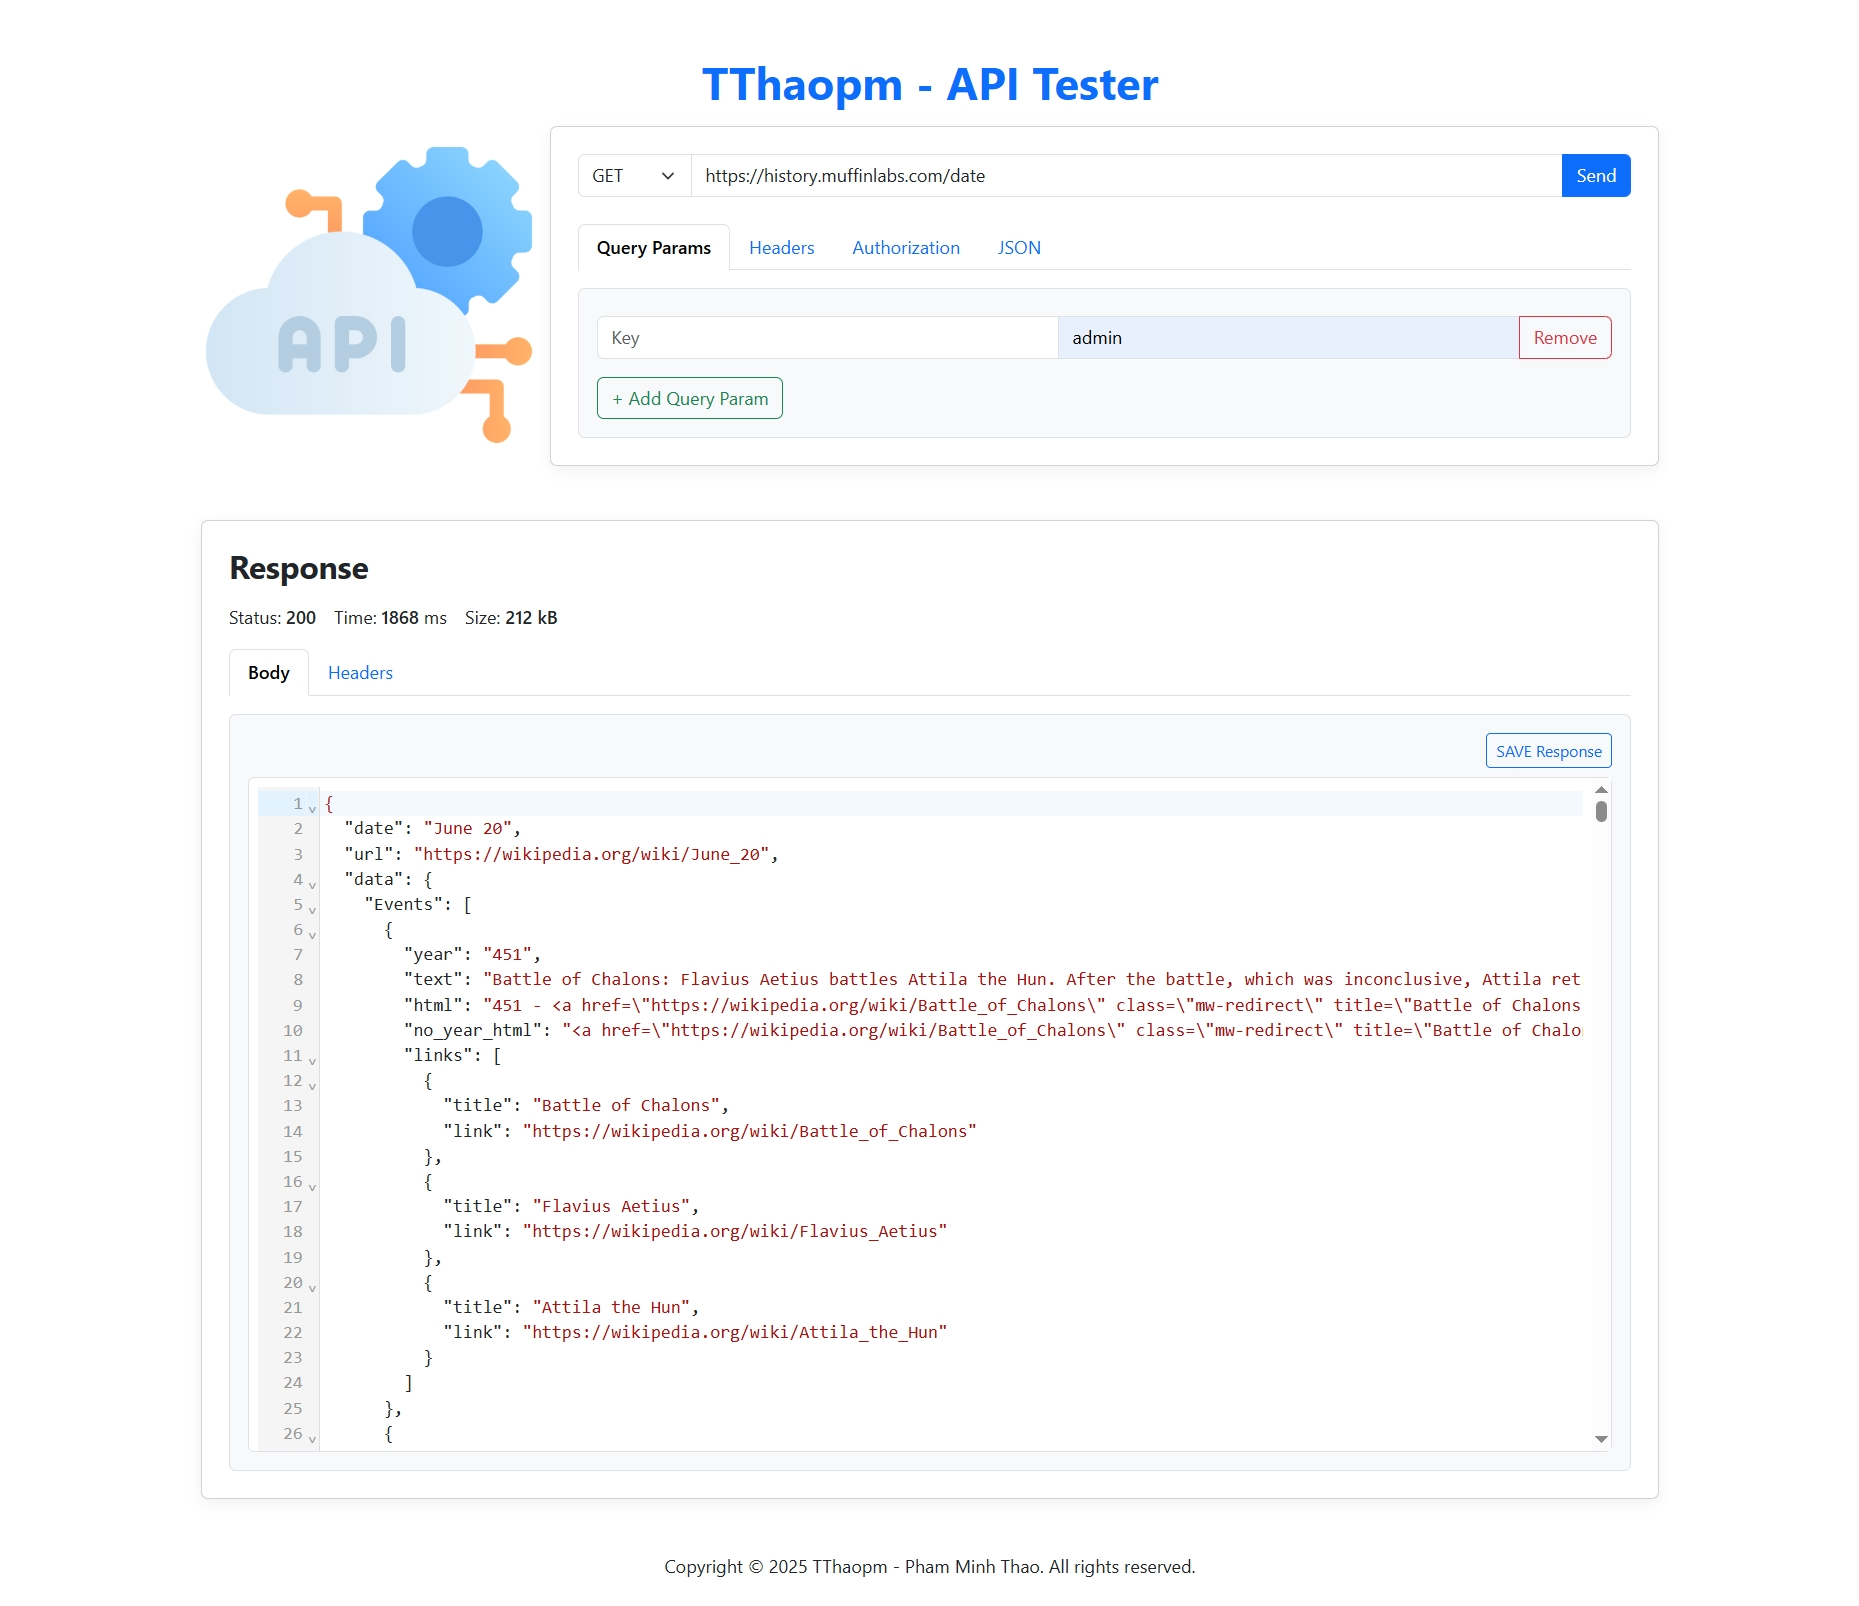
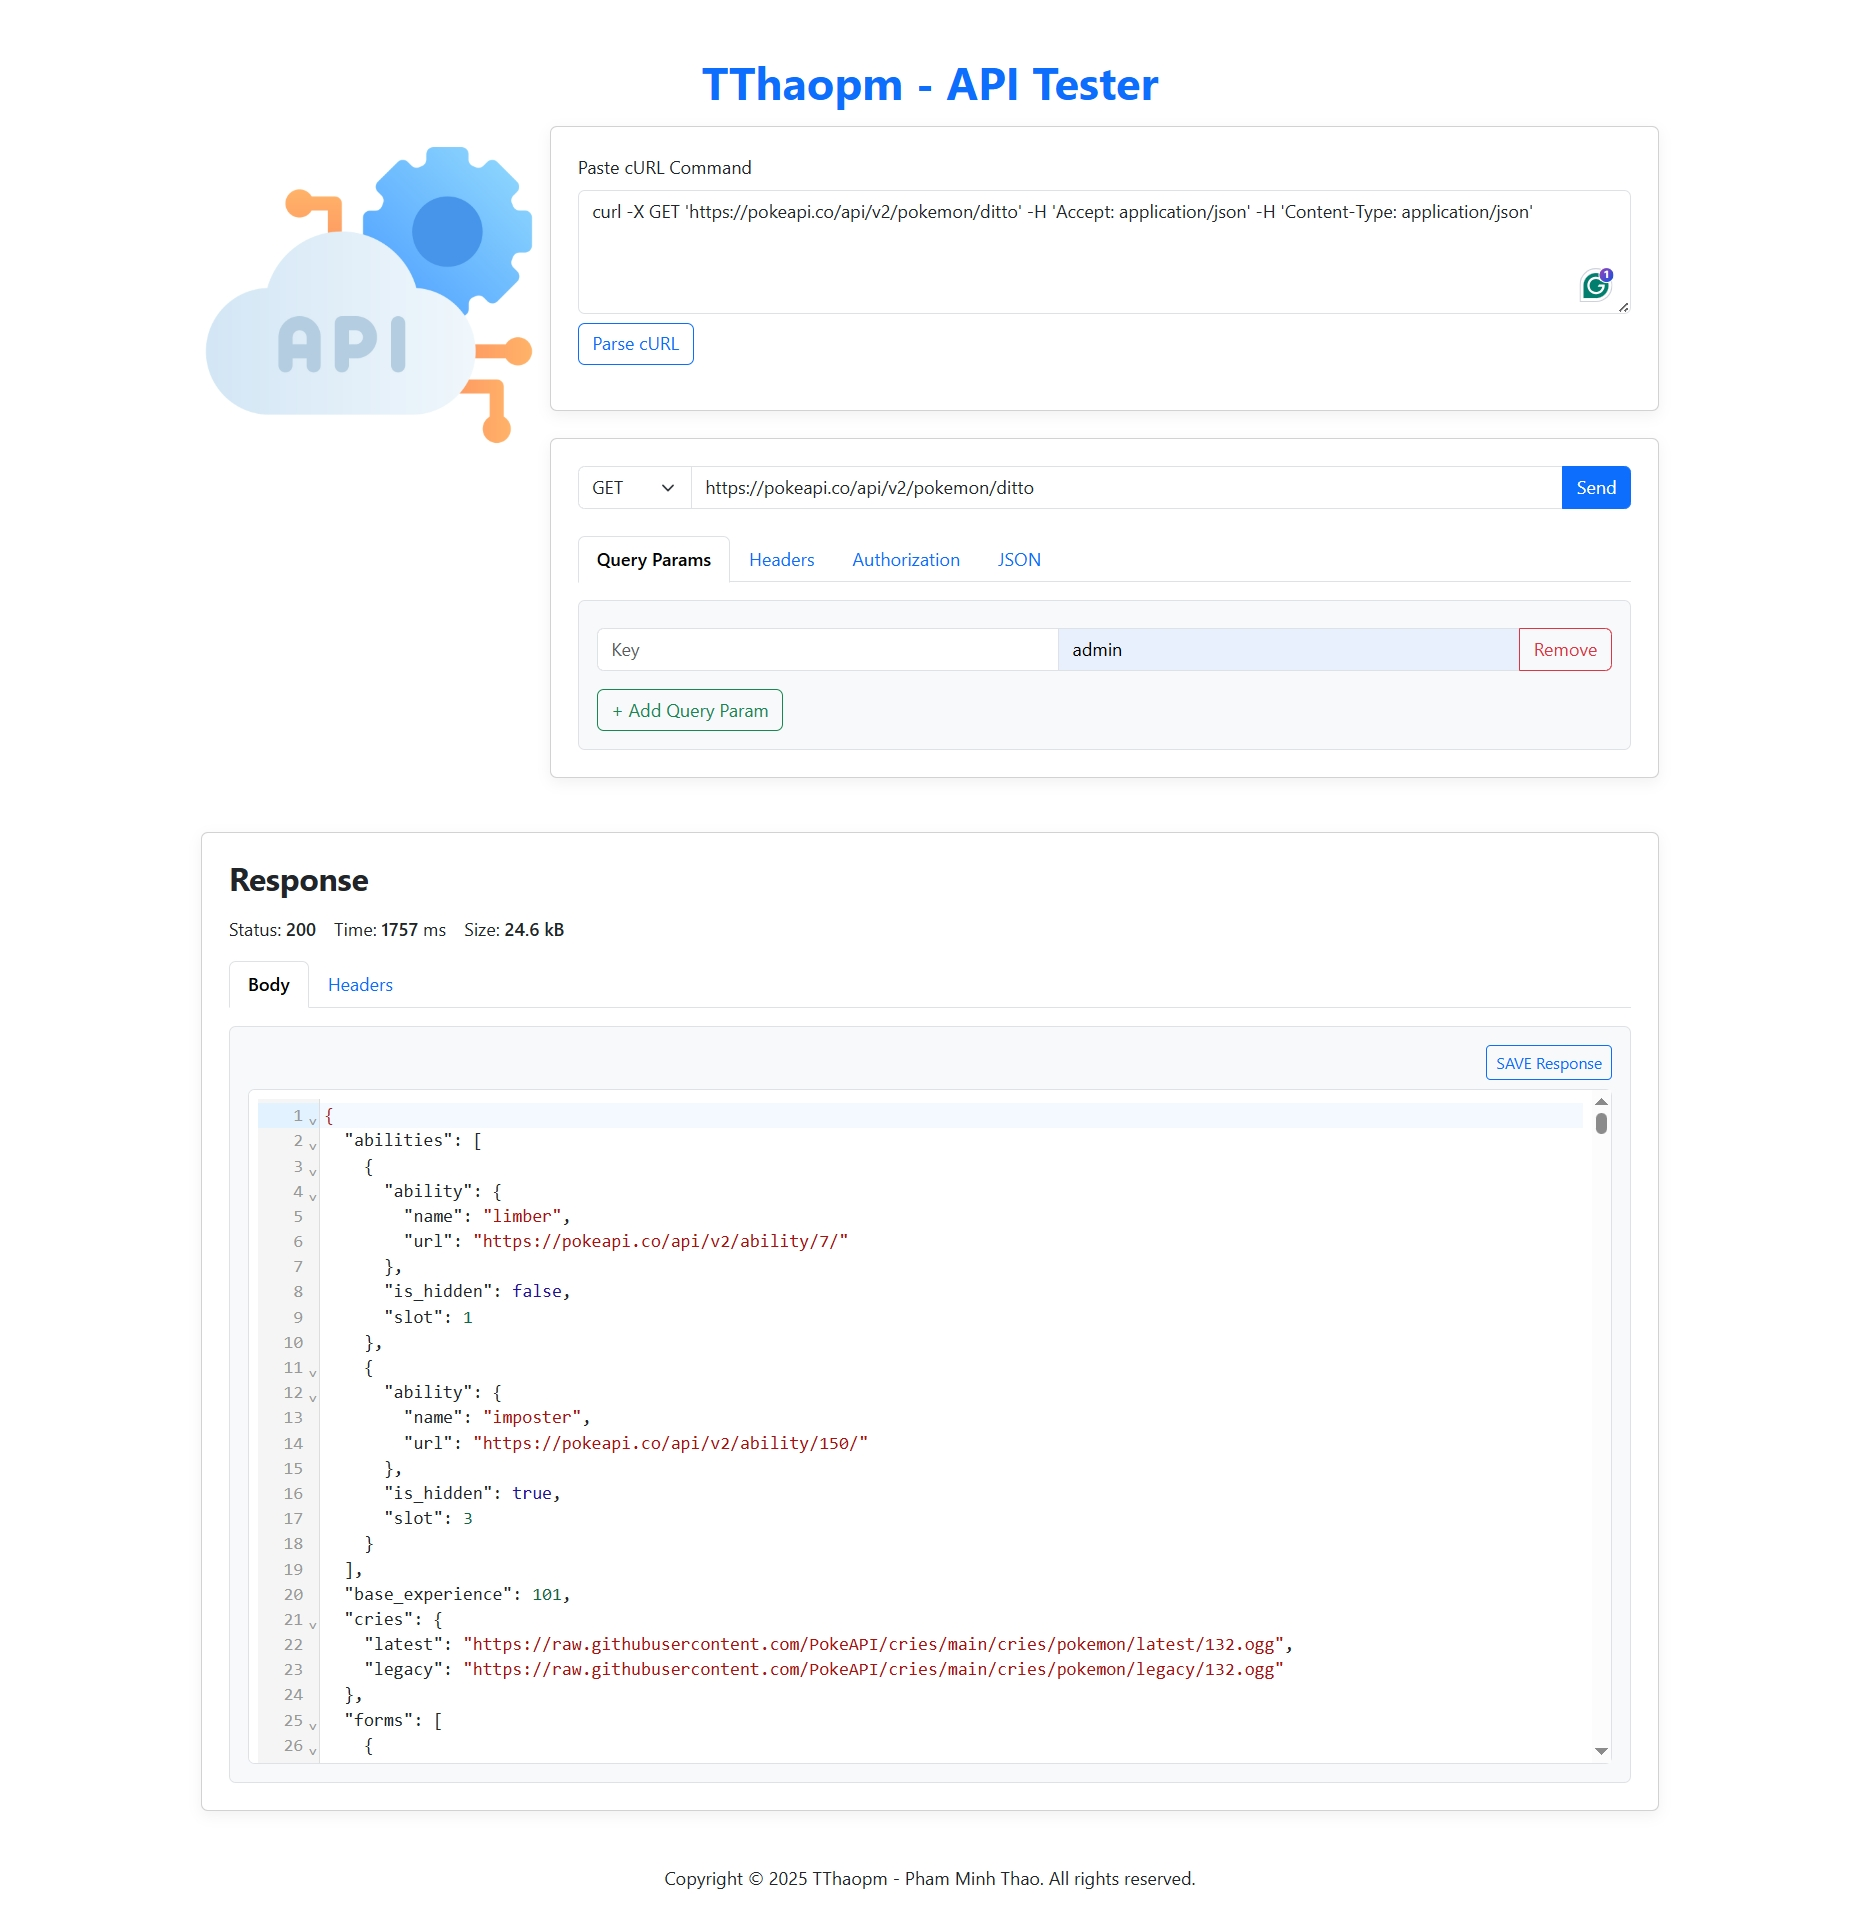
add api-free tets

diff --git a/script.js b/script.js
@@ -16,24 +16,32 @@ const bearerTokenInput = document.querySelector("[data-bearer-token]")
 const usernameInput = document.querySelector("[data-username]")
 const passwordInput = document.querySelector("[data-password]")
 const errorMessage = document.querySelector("#error-message")
+const curlInput = document.querySelector("#curl-input")
+const parseCurlBtn = document.querySelector("#parse-curl-btn")
+
+// Check selectors
+if (!form) console.error("Form element [data-form] not found")
+if (!curlInput) console.error("cURL input #curl-input not found")
+if (!parseCurlBtn) console.error("Parse cURL button #parse-curl-btn not found")
+if (!errorMessage) console.error("Error message #error-message not found")
 
 document
   .querySelector("[data-add-query-param-btn]")
-  .addEventListener("click", () => {
+  ?.addEventListener("click", () => {
     queryParamsContainer.append(createKeyValuePair())
   })
 
 document
   .querySelector("[data-add-request-header-btn]")
-  .addEventListener("click", () => {
+  ?.addEventListener("click", () => {
     requestHeadersContainer.append(createKeyValuePair())
   })
 
-queryParamsContainer.append(createKeyValuePair())
-requestHeadersContainer.append(createKeyValuePair())
+if (queryParamsContainer) queryParamsContainer.append(createKeyValuePair())
+if (requestHeadersContainer) requestHeadersContainer.append(createKeyValuePair())
 
 // Handle auth type selection
-authTypeSelect.addEventListener("change", () => {
+authTypeSelect?.addEventListener("change", () => {
   const authType = authTypeSelect.value
   bearerAuthSection.classList.add("d-none")
   basicAuthSection.classList.add("d-none")
@@ -43,6 +51,115 @@ authTypeSelect.addEventListener("change", () => {
     basicAuthSection.classList.remove("d-none")
   }
 })
+
+// Parse cURL command
+parseCurlBtn?.addEventListener("click", () => {
+  console.log("Parse cURL button clicked")
+  const curlCommand = curlInput?.value.trim()
+  if (!curlCommand) {
+    errorMessage.textContent = "Please enter a cURL command"
+    errorMessage.classList.remove("d-none")
+    console.warn("Empty cURL command")
+    return
+  }
+
+  try {
+    const parsed = parseCurlCommand(curlCommand)
+    console.log("Parsed cURL:", parsed)
+    if (!parsed.url) {
+      errorMessage.textContent = "No valid URL found in cURL command"
+      errorMessage.classList.remove("d-none")
+      console.warn("Parsed cURL has no URL")
+      return
+    }
+    // Populate UI fields
+    const urlInput = document.querySelector("[data-url]")
+    const methodSelect = document.querySelector("[data-method]")
+    if (urlInput) {
+      urlInput.value = parsed.url
+      console.log("Updated URL input:", parsed.url)
+    } else {
+      console.error("URL input [data-url] not found")
+    }
+    if (methodSelect) {
+      methodSelect.value = parsed.method
+      console.log("Updated method select:", parsed.method)
+    } else {
+      console.error("Method select [data-method] not found")
+    }
+    // Clear existing headers
+    requestHeadersContainer.innerHTML = ""
+    // Add parsed headers (excluding Authorization)
+    Object.entries(parsed.headers).forEach(([key, value]) => {
+      if (key.toLowerCase() !== "authorization") {
+        requestHeadersContainer.append(createKeyValuePair(key, value))
+        console.log(`Added header: ${key}=${value}`)
+      }
+    })
+    // Handle Authorization
+    const authHeader = parsed.headers.Authorization || parsed.headers.authorization
+    if (authHeader) {
+      if (authHeader.startsWith("Bearer ")) {
+        authTypeSelect.value = "bearer"
+        bearerTokenInput.value = authHeader.replace("Bearer ", "").trim()
+        bearerAuthSection.classList.remove("d-none")
+        basicAuthSection.classList.add("d-none")
+        console.log("Set Bearer token:", bearerTokenInput.value)
+      } else if (authHeader.startsWith("Basic ")) {
+        authTypeSelect.value = "basic"
+        const decoded = atob(authHeader.replace("Basic ", "").trim())
+        const [username, password] = decoded.split(":")
+        usernameInput.value = username || ""
+        passwordInput.value = password || ""
+        basicAuthSection.classList.remove("d-none")
+        bearerAuthSection.classList.add("d-none")
+        console.log("Set Basic Auth:", { username, password })
+      } else {
+        authTypeSelect.value = "none"
+        requestHeadersContainer.append(createKeyValuePair("Authorization", authHeader))
+        console.log("Added Authorization header:", authHeader)
+      }
+    } else {
+      authTypeSelect.value = "none"
+      console.log("No Authorization header found")
+    }
+    errorMessage.classList.add("d-none")
+  } catch (e) {
+    errorMessage.textContent = "Invalid cURL command format: " + e.message
+    errorMessage.classList.remove("d-none")
+    console.error("cURL parsing error:", e)
+  }
+})
+
+function parseCurlCommand(curlCommand) {
+  const result = { method: "GET", url: "", headers: {} }
+  // Split by spaces, preserving quoted strings
+  const parts = curlCommand.match(/(?:[^\s'"]+|'[^']*'|"[^"]*")+/g) || []
+  console.log("cURL parts:", parts)
+  if (!parts[0]?.startsWith("curl")) {
+    console.warn("cURL command does not start with 'curl'")
+    return result
+  }
+
+  for (let i = 1; i < parts.length; i++) {
+    const part = parts[i]
+    if (part === "-X" && parts[i + 1]) {
+      result.method = parts[i + 1].toUpperCase()
+      i++
+    } else if (part === "-H" && parts[i + 1]) {
+      const header = parts[i + 1].replace(/^['"]|['"]$/g, "")
+      const match = header.match(/([^:]+):\s*(.+)/)
+      if (match) {
+        const [, key, value] = match
+        result.headers[key] = value
+      }
+      i++
+    } else if (part.match(/^https?:\/\//) || (part.match(/^['"].*https?:\/\//))) {
+      result.url = part.replace(/^['"]|['"]$/g, "")
+    }
+  }
+  return result
+}
 
 axios.interceptors.request.use(request => {
   request.customData = request.customData || {}
@@ -73,15 +190,16 @@ axios.interceptors.response.use(updateEndTime, e => {
 })
 
 const { requestEditor, updateResponseEditor } = setupEditors()
-form.addEventListener("submit", e => {
+form?.addEventListener("submit", e => {
   e.preventDefault()
+  console.log("Form submitted")
   errorMessage.classList.add("d-none")
 
-  // Validate URL
-  const urlInput = document.querySelector("[data-url]").value.trim()
-  if (!urlInput.match(/^https?:\/\//)) {
+  const urlInput = document.querySelector("[data-url]")?.value.trim()
+  if (!urlInput?.match(/^https?:\/\//)) {
     errorMessage.textContent = "Invalid URL: Must include http:// or https://"
     errorMessage.classList.remove("d-none")
+    console.warn("Invalid URL:", urlInput)
     return
   }
 
@@ -91,27 +209,29 @@ form.addEventListener("submit", e => {
   } catch (e) {
     errorMessage.textContent = "JSON data is malformed"
     errorMessage.classList.remove("d-none")
+    console.error("JSON parse error:", e)
     return
   }
 
-  // Construct Authorization header
   let headers = {
     ...keyValuePairsToObjects(requestHeadersContainer),
     "Accept": "application/json",
     "Content-Type": "application/json"
   }
-  const authType = authTypeSelect.value
+  const authType = authTypeSelect?.value
   if (authType === "bearer") {
-    if (!bearerTokenInput.value.trim()) {
+    if (!bearerTokenInput?.value.trim()) {
       errorMessage.textContent = "Please enter a Bearer token"
       errorMessage.classList.remove("d-none")
+      console.warn("Missing Bearer token")
       return
     }
     headers = { ...headers, Authorization: `Bearer ${bearerTokenInput.value.trim()}` }
   } else if (authType === "basic") {
-    if (!usernameInput.value.trim() || !passwordInput.value.trim()) {
+    if (!usernameInput?.value.trim() || !passwordInput?.value.trim()) {
       errorMessage.textContent = "Please enter both username and password"
       errorMessage.classList.remove("d-none")
+      console.warn("Missing Basic Auth credentials")
       return
     }
     const encodedCredentials = btoa(`${usernameInput.value.trim()}:${passwordInput.value.trim()}`)
@@ -120,11 +240,11 @@ form.addEventListener("submit", e => {
 
   axios({
     url: urlInput,
-    method: document.querySelector("[data-method]").value,
+    method: document.querySelector("[data-method]")?.value,
     params: keyValuePairsToObjects(queryParamsContainer),
     headers,
     data,
-    timeout: 10000 // 10-second timeout
+    timeout: 10000
   })
     .then(response => {
       document
@@ -197,8 +317,7 @@ function keyValuePairsToObjects(container) {
   return [...pairs].reduce((data, pair) => {
     const key = pair.querySelector("[data-key]").value
     const value = pair.querySelector("[data-value]").value
-
     if (key === "") return data
     return { ...data, [key]: value }
-  }, {}) 
+  }, {})
 }

diff --git a/index.html b/index.html
@@ -48,6 +48,14 @@
     <h1 class="mb-3 fw-bold text-center text-primary">TThaopm - API Tester</h1>
     <img src="/software.png" alt="Logo" style="float: left; margin-right: 10px; width: 300px;">
 
+    <div class="card p-4 mb-4">
+      <div class="mb-3">
+        <label for="curl-input" class="form-label">Paste cURL Command</label>
+        <textarea id="curl-input" class="form-control" rows="4" placeholder="e.g., curl -X GET 'https://api.example.com/endpoint' -H 'Authorization: Bearer your-token-here'"></textarea>
+        <button id="parse-curl-btn" class="btn btn-outline-primary mt-2">Parse cURL</button>
+      </div>
+    </div>
+
     <div class="card p-4">
       <form data-form>
         <div class="input-group mb-4">
@@ -107,7 +115,7 @@
             </div>
             <div id="basic-auth" class="auth-section d-none">
               <label for="username" class="form-label">Username</label>
-              <input type="text" id="username" class="form-control" data-username placeholder="Enter Username" />
+              <input type="text" id="username" class="form-control" data-username placeholder="enter Username" />
               <label for="password" class="form-label mt-2">Password</label>
               <input type="password" id="password" class="form-control" data-password placeholder="Enter Password" />
             </div>
